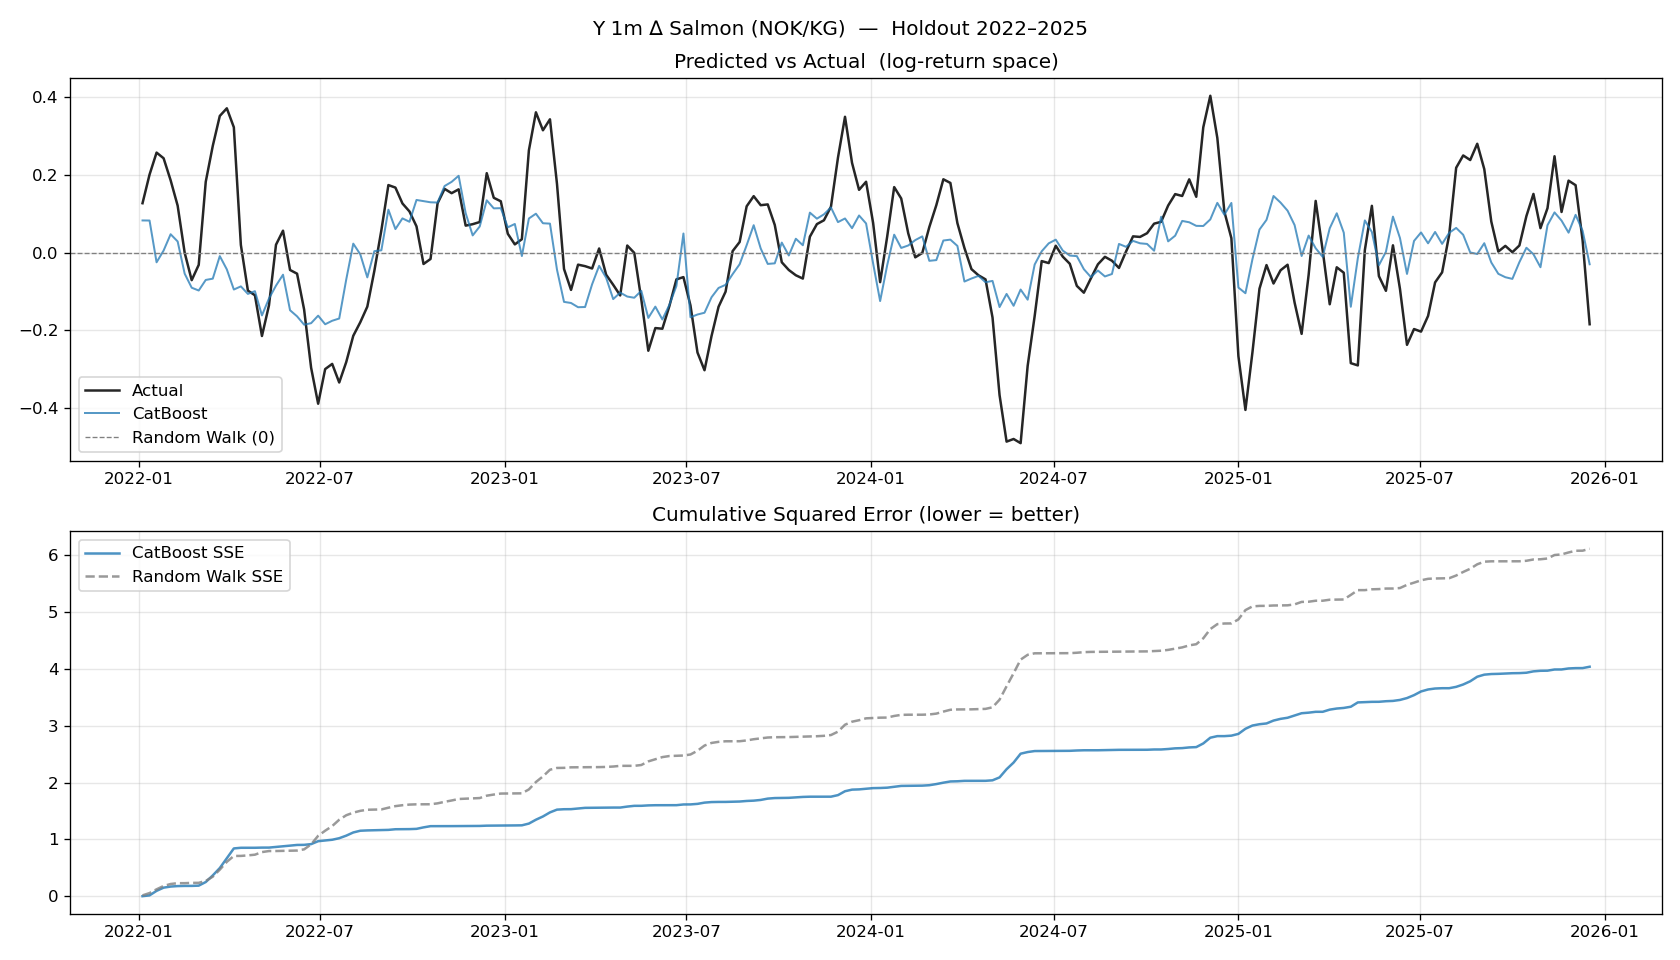
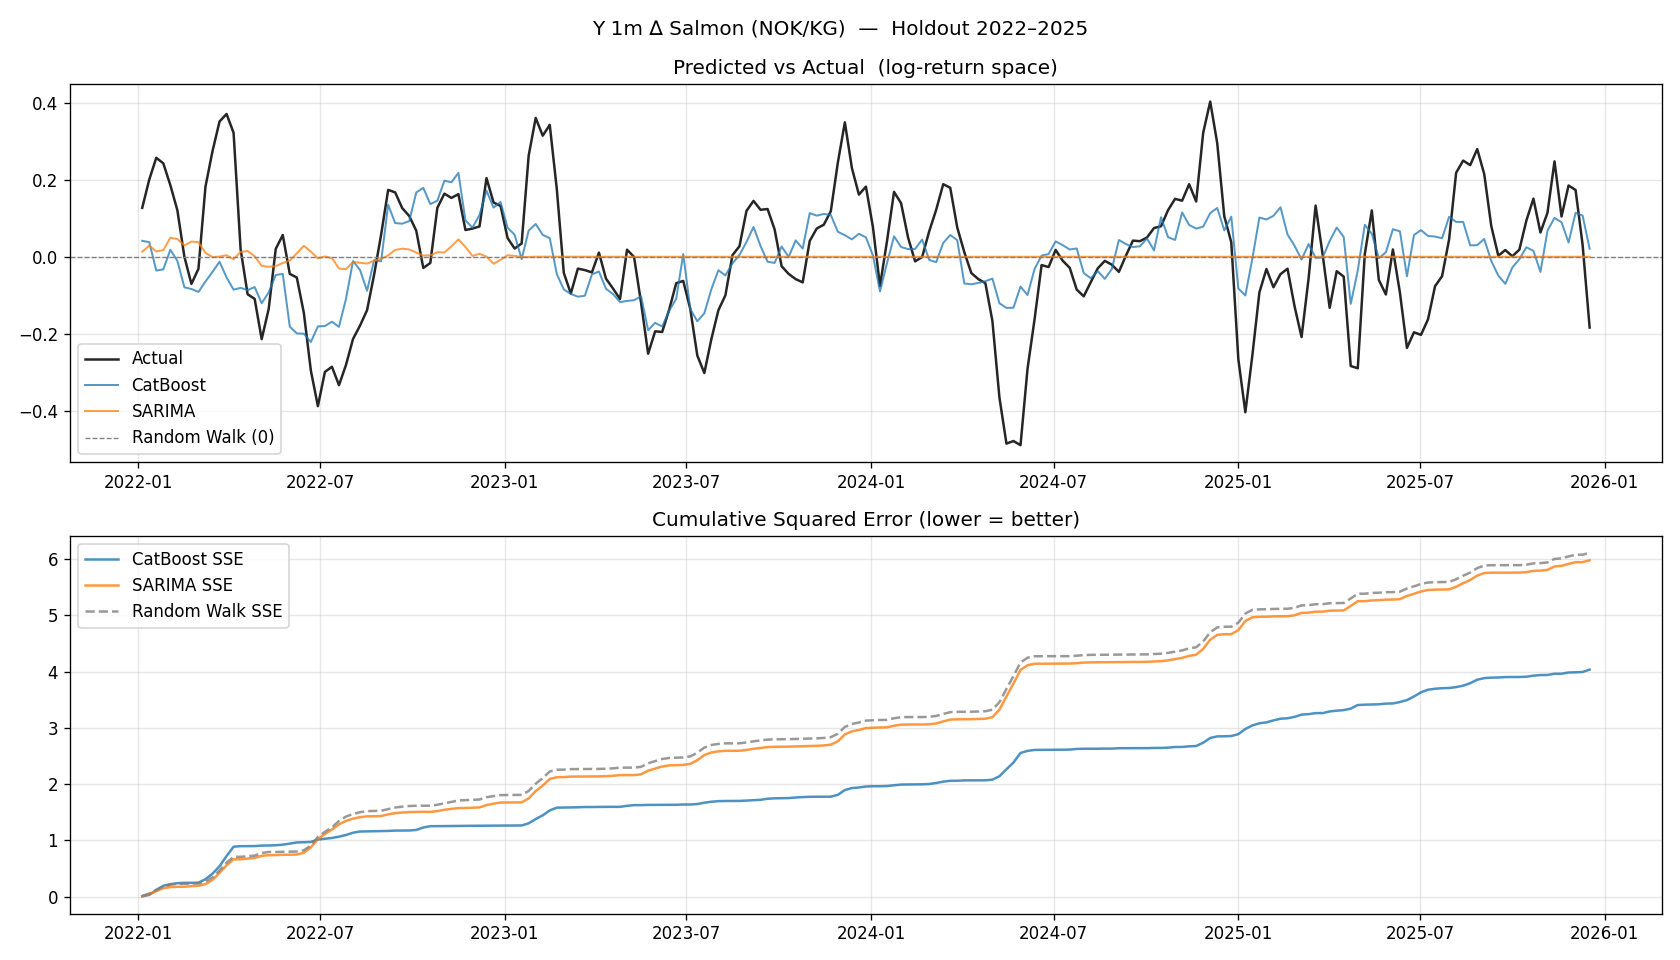
Catboost v5

diff --git a/model_comparison.py b/model_comparison.py
@@ -75,12 +75,12 @@ def _fit_sarima(series):
         m                     = 52,
         d                     = 0,
         D                     = 0,
-        max_p                 = 3,
-        max_q                 = 3,
-        max_P                 = 1,
-        max_Q                 = 1,
+        max_p                 = 5,
+        max_q                 = 5,
+        max_P                 = 2,
+        max_Q                 = 2,
         stepwise              = True,
-        information_criterion = "aic",
+        information_criterion = "bic",
         error_action          = "ignore",
         suppress_warnings     = True,
     )
